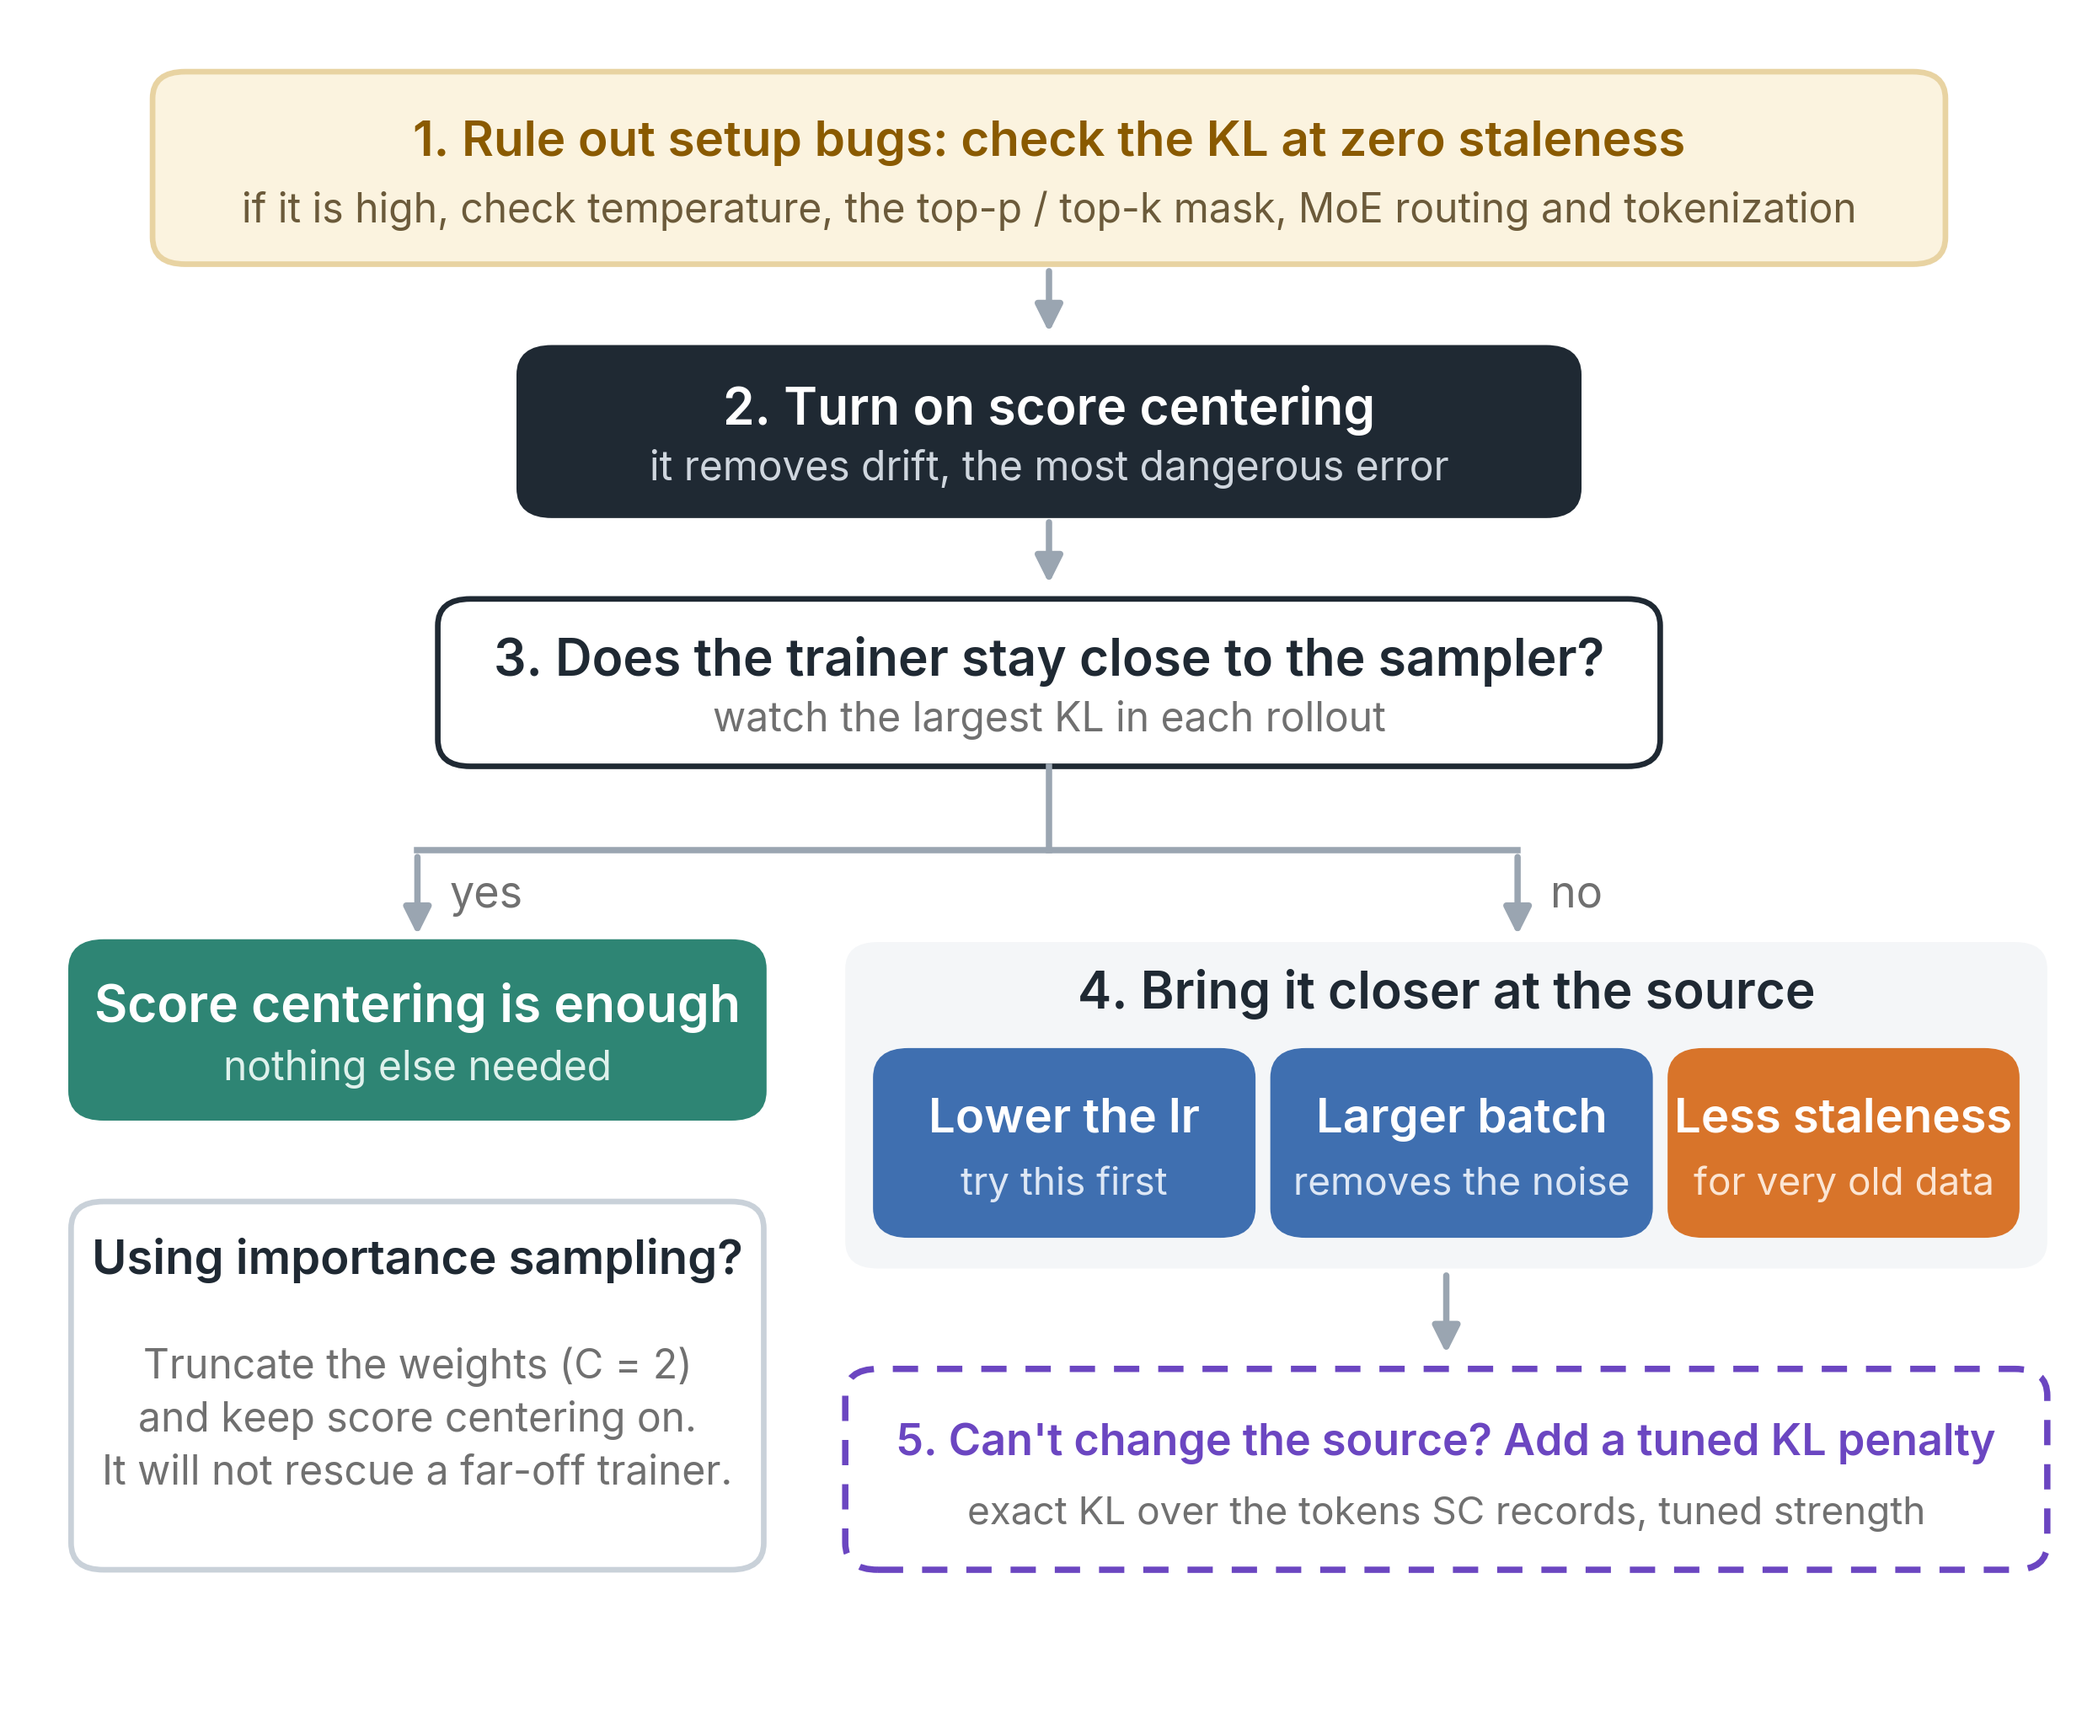
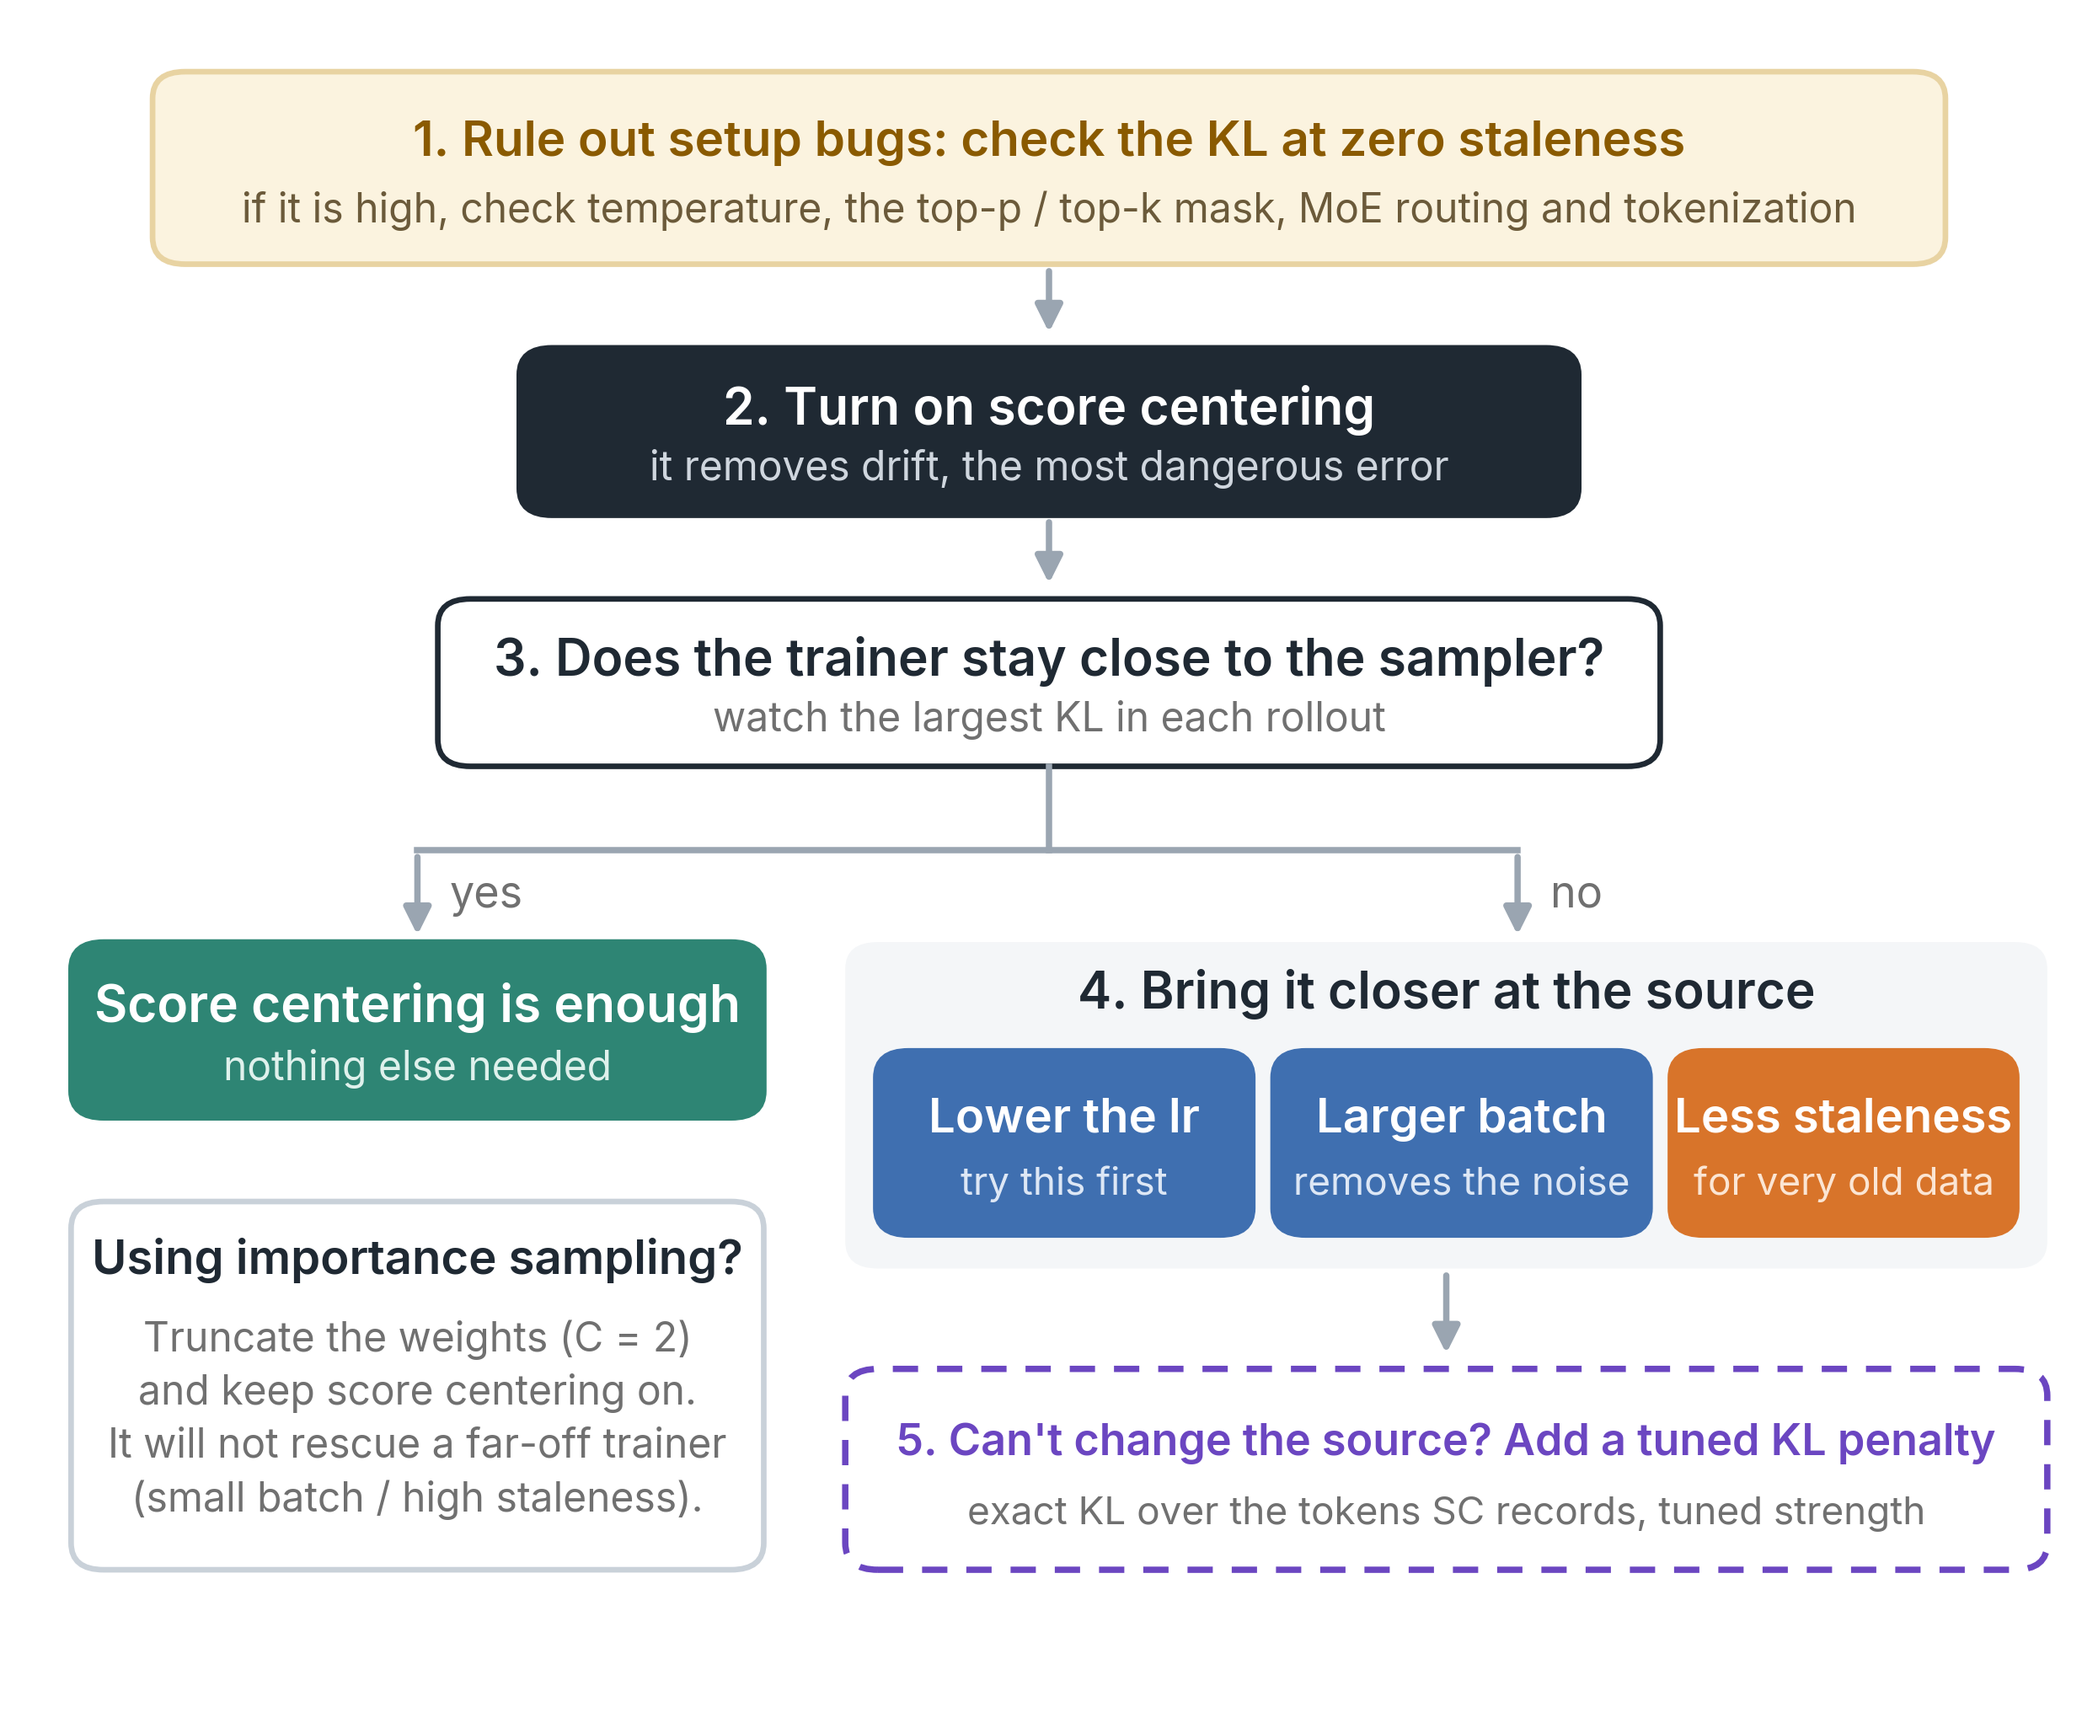
sc-drift-and-distance: Figure 17 IS box scoped; framework default strength; Muon example removed

Changed region(s): [[0.0618, 0.7464, 0.3402, 0.8707]]

diff --git a/sc-drift-and-distance/index.html b/sc-drift-and-distance/index.html
@@ -256,19 +256,19 @@ html[data-theme=dark] .body figure img{filter:invert(.92) hue-rotate(180deg)}
 <p><b>On 4B, the default penalty barely learns.</b> With Tinker’s default penalty on DAPO-Math at batch 16 (purple in <a class="figref" href="#fig-8">Figure 8</a>), SC no longer collapses, but the training reward never trends up. Its final checkpoint scores 21% on AIME, close to the base model and far below the batch-128 runs (<a class="figref" href="#fig-9">Figure 9</a>). The same \(\beta\) that was too weak on 0.8B holds back learning here, so a penalty strength tuned in one setup does not carry over to another.</p>
 <h2 id="5-a-checklist-for-async-rl"><span id="sec-5"></span>5. A checklist for async RL</h2>
 <p><a class="figref" href="#fig-17">Figure 17</a> turns our results into a checklist, with one box for each step below.</p>
-<figure id="fig-17"><img src="figs/fig17_checklist.png?v=08122379f2" alt="Figure 17"><figcaption><b>Figure 17. A checklist for async RL.</b> Rule out setup bugs, turn on score centering, and bring a far-off trainer closer at the source before adding a KL penalty.</figcaption></figure>
+<figure id="fig-17"><img src="figs/fig17_checklist.png?v=d59dd35e9f" alt="Figure 17"><figcaption><b>Figure 17. A checklist for async RL.</b> Rule out setup bugs, turn on score centering, and bring a far-off trainer closer at the source before adding a KL penalty.</figcaption></figure>
 <p><b>1. Rule out setup bugs.</b> These checks are cheap, and no correction survives a large mismatch (<a class="cite" href="#ref-fang2025" title="Fang, Q., and Khazi, D. (2025). Mismatch Praxis: Rollout Settings and IS Corrections. Blog post. llmdata.com/blog/mismatch-praxis">Fang &amp; Khazi, 2025</a>). Measure the KL at zero staleness. If it is clearly above zero, match the sampler’s temperature and top-p or top-k mask, replay the sampler’s MoE routing, and pass the sampler’s token IDs instead of re-tokenizing the text, which can split it differently.</p>
 <p><b>2. Turn on score centering.</b> It removes drift, the error that amplifies itself and that no batch size averages away. If you also use importance sampling, truncate the weights.</p>
 <p><b>3. Watch how far the trainer moves.</b> The largest KL in each rollout is the signal to watch. While it stays small, score centering alone is enough.</p>
 <p><b>4. If it grows, fix it at the source.</b> Lower the learning rate first, since it matches the best KL penalty with nothing to tune. Use a larger batch while the distance is mostly noise, and reduce staleness when the data is very old.</p>
-<p><b>5. Add a KL penalty only when the source cannot change, and tune its strength.</b> Compute the exact KL over the tokens you already record for SC, not only the sampled one. The default strength can stop learning.</p>
+<p><b>5. Add a KL penalty only when the source cannot change, and tune its strength.</b> Compute the exact KL over the tokens you already record for SC, not only the sampled one. The framework default strength can stop learning.</p>
 <h2 id="6-conclusion"><span id="sec-6"></span>6. Conclusion</h2>
 <p>Score centering removes drift. What it leaves is distance, part noise and part learning itself, and this split explains why the two results we started from disagree. The SC paper trains with a large batch (i.e., 512 responses per step), which keeps the noise small and the trainer close to the sampler, so SC + TIS is stable. Zhang trains with a small batch (i.e., a few prompts per step) on data tens to hundreds of steps old, so the trainer moves far and SC + TIS collapses. Comparisons of off-policy corrections should therefore report batch size and staleness.</p>
 <p>The split also points to what could come after SC. The levers it suggests need no new algorithm, because every RL run already has them. MiMo-V2.6 (<a class="cite" href="#ref-xiaomi2026">LLM-Core Xiaomi, 2026</a>) trains on 1,568 prompts × 16 responses per step for about 30 RL steps. A batch that large keeps the noise small, and so few steps leave little room for learning on old data to pile up, so the trainer stays close to the sampler. When async RL becomes unstable, it helps to first ask what broke it, whether noise, learning on old data, or a single extreme weight.</p>
 <h2 id="7-open-questions-and-related-work"><span id="sec-7"></span>7. Open questions and related work</h2>
 <details><summary>Open questions</summary>
 <p>Several questions remain open.</p>
-<ul><li><b>Can staleness follow the KL instead of a fixed schedule?</b> Staleness is usually fixed in advance for throughput. The largest KL in a rollout rises before SC collapses, and the last steps of a rollout add most of it. Syncing early whenever that KL grows too large would give up throughput only when training needs it.</li><li><b>How much does SC add once every method is tuned?</b> Every method in our runs used the same batch size and learning rate, and a method without SC might do better at other settings. Untruncated IS, for example, collapses at learning rate 0.03 at staleness 7 and batch 64, but trains to the end at 0.015. The fairer test tunes TIS and a KL penalty on their own, without SC, and compares each one’s best run with the best run of SC.</li><li><b>Do the thresholds move under Adam or Muon?</b> We use SGD so that a larger batch changes only the noise. Adam rescales every update, which ties the step size to the batch. Muon, which some large runs now use, orthogonalizes each update, so its step size depends less on the gradient’s scale. MiMo-V2.6, for example, switches its hidden weights to a Muon variant during mid-training, before RL. The question is whether the split between noise and learning survives under either optimizer, and where SC alone stops being enough.</li></ul>
+<ul><li><b>Can staleness follow the KL instead of a fixed schedule?</b> Staleness is usually fixed in advance for throughput. The largest KL in a rollout rises before SC collapses, and the last steps of a rollout add most of it. Syncing early whenever that KL grows too large would give up throughput only when training needs it.</li><li><b>How much does SC add once every method is tuned?</b> Every method in our runs used the same batch size and learning rate, and a method without SC might do better at other settings. Untruncated IS, for example, collapses at learning rate 0.03 at staleness 7 and batch 64, but trains to the end at 0.015. The fairer test tunes TIS and a KL penalty on their own, without SC, and compares each one’s best run with the best run of SC.</li><li><b>Do the thresholds move under Adam or Muon?</b> We use SGD so that a larger batch changes only the noise. Adam rescales every update, which ties the step size to the batch. Muon, which some large runs now use, orthogonalizes each update, so its step size depends less on the gradient’s scale. The question is whether the split between noise and learning survives under either optimizer, and where SC alone stops being enough.</li></ul>
 </details>
 <details><summary>Related work</summary>
 <p><b>Truncated importance sampling.</b> <a class="cite" href="#ref-ionides2008" title="Ionides, E. L. (2008). Truncated Importance Sampling. Journal of Computational and Graphical Statistics. doi:10.1198/106186008X320456">Ionides (2008)</a> introduces truncation with a ceiling \(\propto \sqrt{n}\). <a class="cite" href="#ref-wang2017" title="Wang, Z., Bapst, V., Heess, N., et al. (2017). Sample Efficient Actor-Critic with Experience Replay. ICLR 2017. arXiv:1611.01224">ACER</a> and <a class="cite" href="#ref-espeholt2018" title="Espeholt, L., Soyer, H., Munos, R., et al. (2018). IMPALA: Scalable Distributed Deep-RL with Importance Weighted Actor-Learner Architectures. ICML 2018. arXiv:1802.01561">V-trace</a> use fixed ceilings in deep RL. <a class="cite" href="#ref-yao2025" title="Yao, F., Liu, L., Zhang, D., Dong, C., Shang, J., and Gao, J. (2025). Your Efficient RL Framework Secretly Brings You Off-Policy RL Training. Blog post. fengyao.notion.site/off-policy-rl">Yao et al. (2025)</a> bring token-level TIS to LLM RL, and <a href="https://fengyao.notion.site/flash-rl" target="_blank" rel="noopener">Liu et al. (2025)</a> use it to train with 8-bit samplers. Later work finds that fixed ceilings mostly truncate low-confidence tokens (<a class="cite" href="#ref-yu2026" title="Yu, T., Zhao, K., Li, S., et al. (2026). Rethinking Training-Inference Mismatch in LLM Reinforcement Learning: Where It Arises and How to Correct It. arXiv:2609.32444">Yu et al., 2026</a>) and that no single ceiling works throughout training (<a class="cite" href="#ref-zhou2026" title="Zhou, J., Shao, W., Zheng, L., et al. (2026). AIS: Adaptive Importance Sampling for Quantized RL. arXiv:2605.13907">Zhou et al., 2026</a>).</p>
